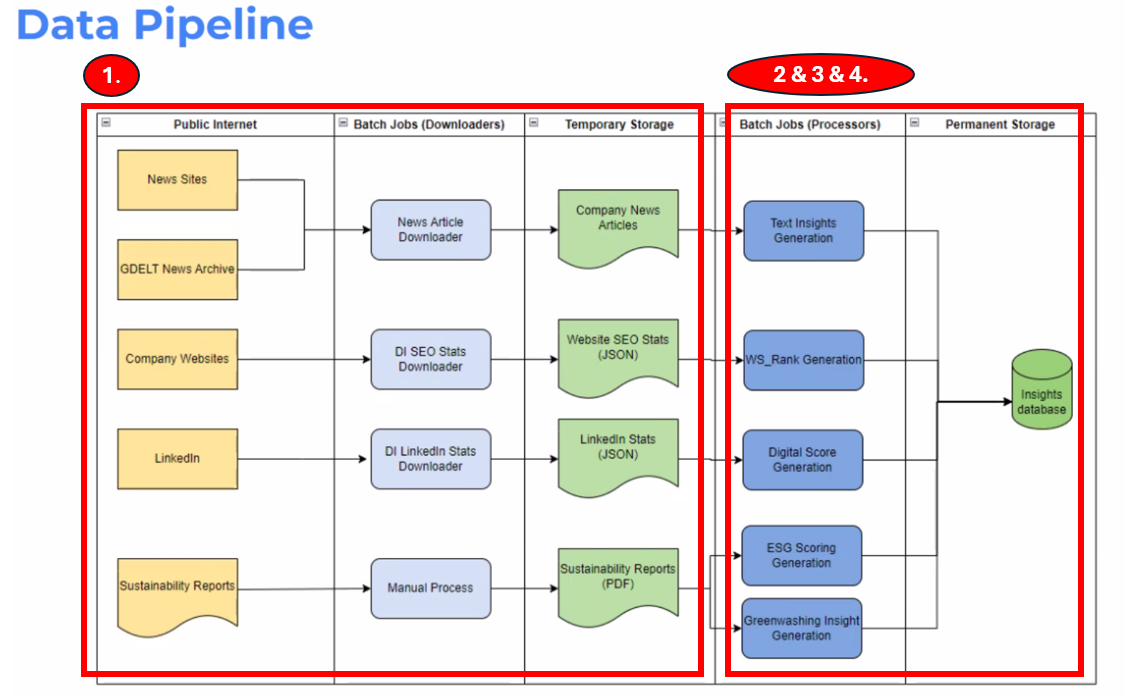
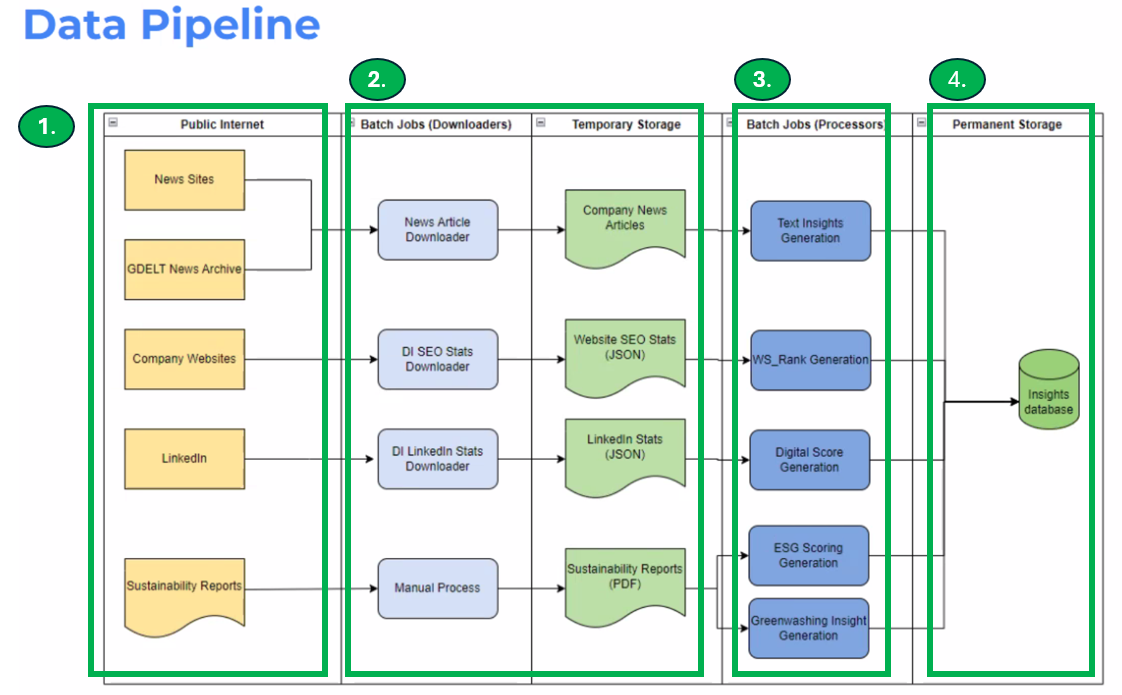
Update README

Changed region(s): [[0.0, 0.0, 0.9982, 0.9971]]

diff --git a/README.md b/README.md
@@ -14,11 +14,11 @@ This project aims to enhance the assessment of SME sustainability, uncover misle
 
 ## Approach & Methodology
 
-1. **Data Exploration and Collection**: Identify and integrate new data sources.
-2. **Aggregate Data & Assign ESG Scores**: Implement AI to process diverse datasets and create algorithms for assigning ESG scores.
-3. **Combat Greenwashing**: Develop an AI model with ~85% accuracy to distinguish genuine sustainability claims from deceptive ones.
-4. **Extract Financial & Sustainability Metrics**: Apply NLP to derive actionable insights from text data, processing and categorizing data points.
-5. **User-Friendly UI**: Develop a dashboard to display the ESG Scores, Greenwashing Probability, Sustainability Metrics of each company extracted by AI models.
+1. **Data Exploration**: Identify and integrate new data sources from public internet sites, including news sites, GDELT news archive, company websites, LinkedIn, and sustainability reports.
+2. **Data Collection & Processing**: Utilize automated pipelines to download and temporarily store data, including news article, website & LinkedIn stats, and sustainability reports.
+3. **Extract Financial & Sustainability Metrics**: Apply advanced AI and NLP techniques to generate text insights, digital scores, and ESG scores from the data collected. Develop a fine-tuned classification NLP model to distinguish genuine sustainability claims from deceptive ones (greenwashing).
+4. **Data Storage**: Store processed insights in a permenant database.
+5. **User-Friendly UI**: Develop a dashboard to display the ESG Scores, Greenwashing Probability, Digital Identity scores, NLP derive actionable insights, and sentiment trends over time of each company.
 
 ![Data Pipeline](./images/Data%20Pipeline.png)
 ![User Interface](./images/User%20Interface.png)
